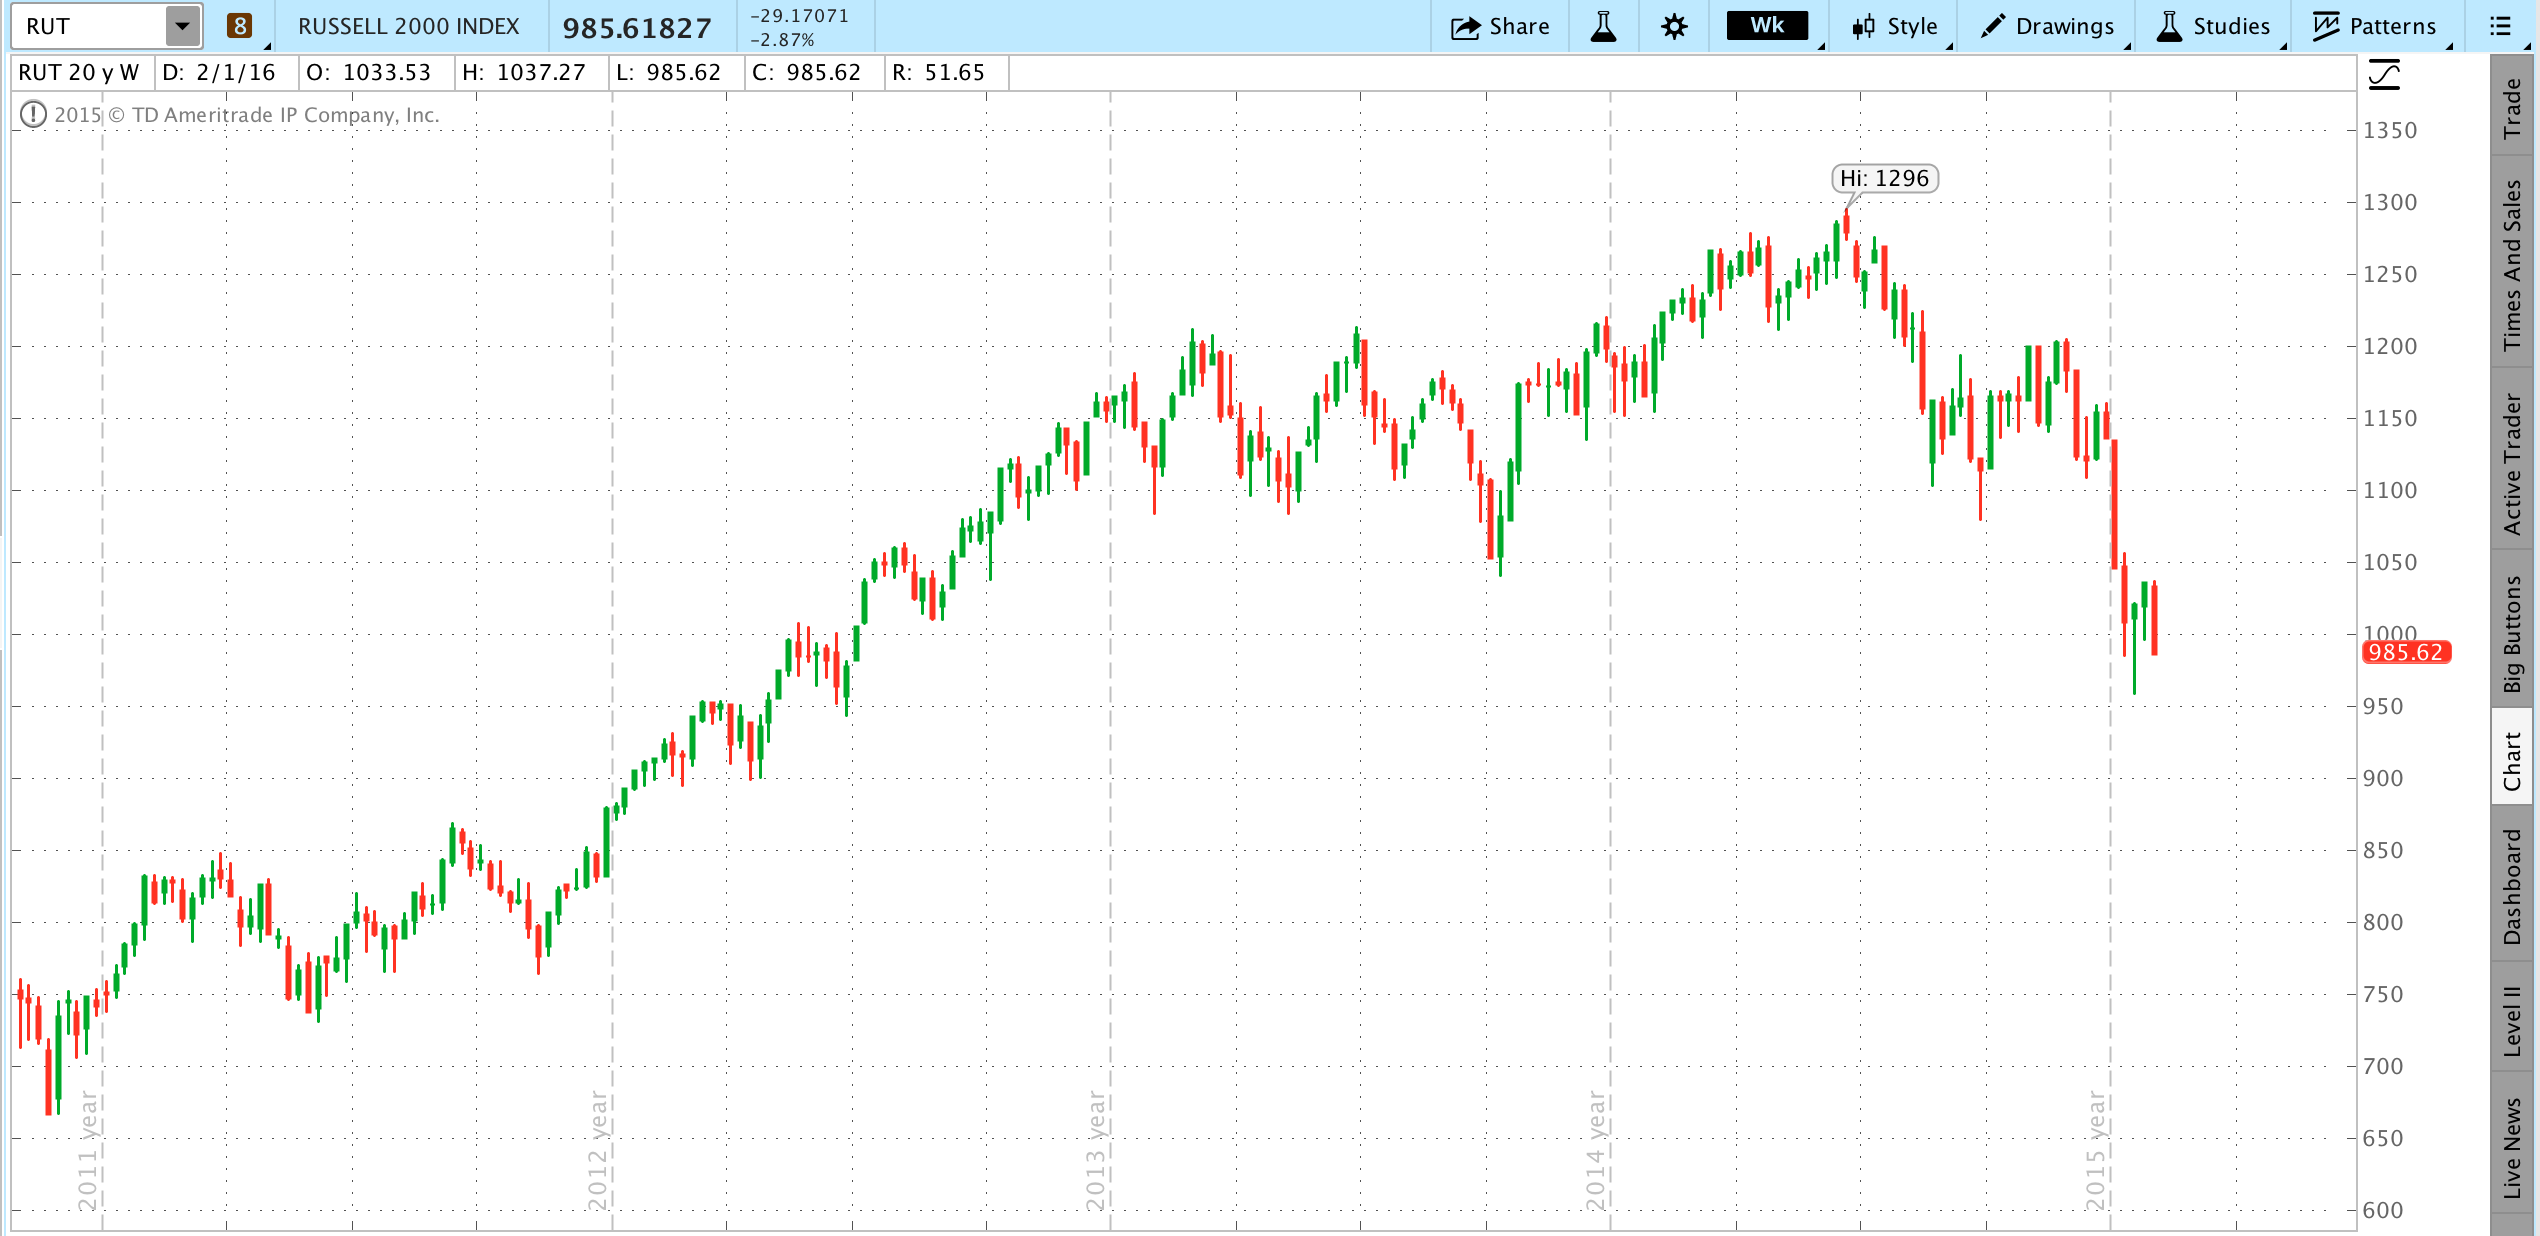
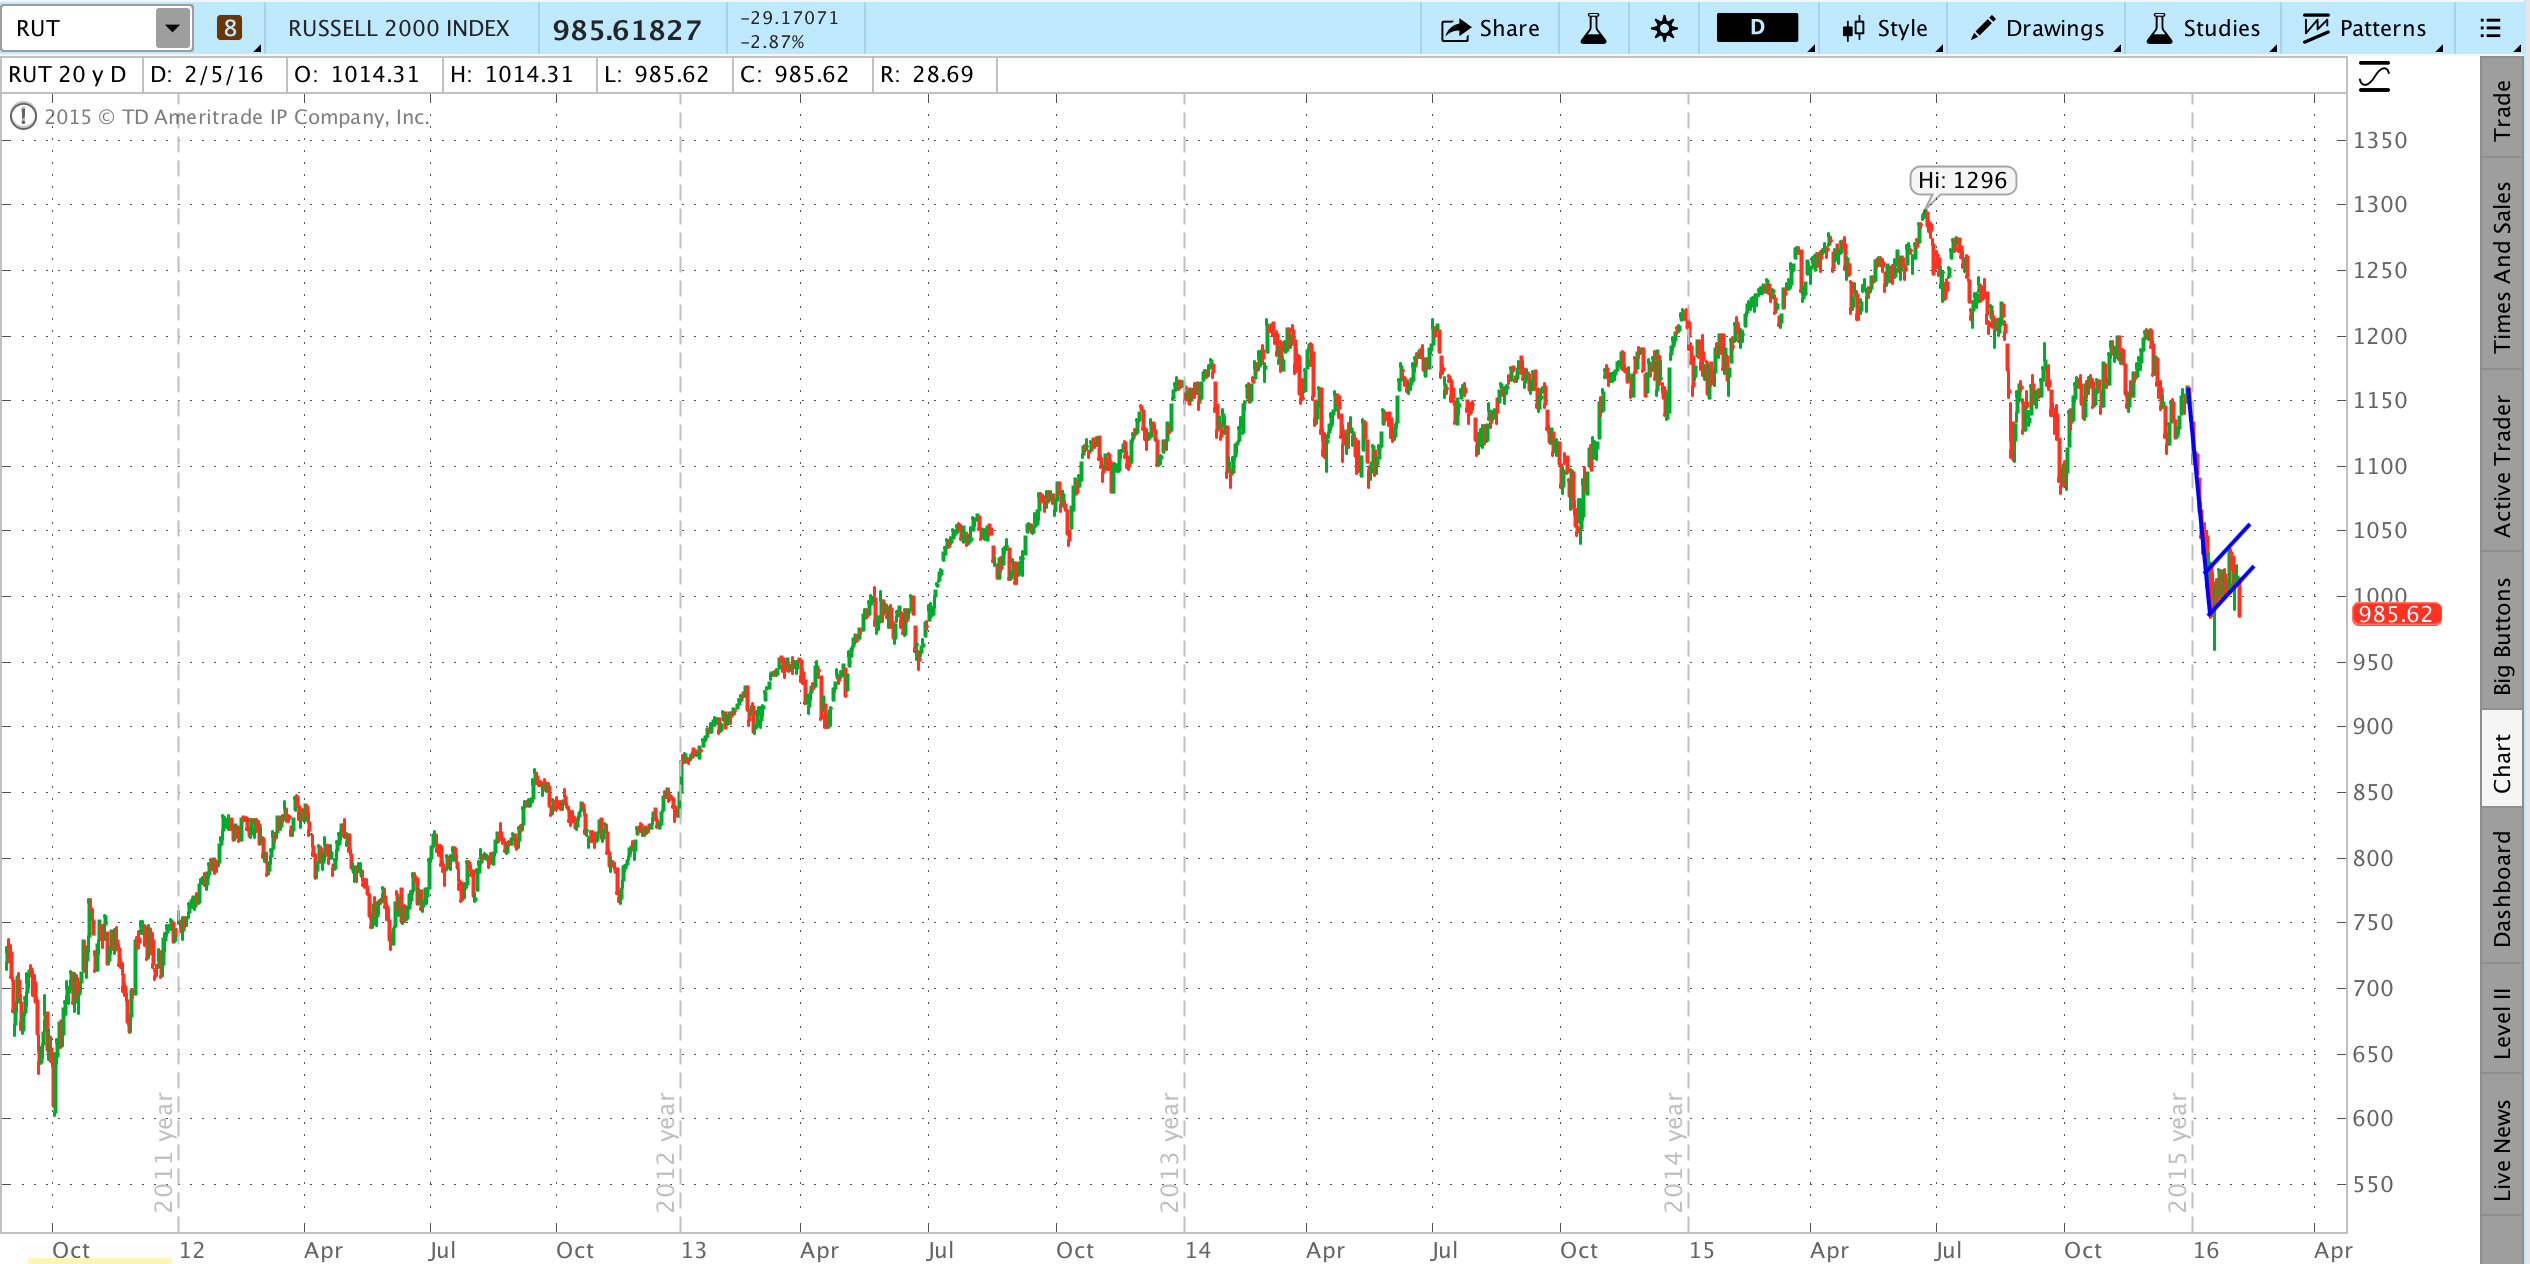
blah

diff --git a/public/blog/2016/02/07/weekly-market-outlook-02-slash-08-slash-16/index.html b/public/blog/2016/02/07/weekly-market-outlook-02-slash-08-slash-16/index.html
@@ -112,6 +112,8 @@
 
 <p><a href="/images/investments/2016-02-07_rut_weekly.png"><img src="/images/investments/2016-02-07_rut_weekly.png" alt="RUT" /></a></p>
 
+<p>Even clearer here, as it exhibits a prominent &ldquo;bear flag&rdquo; pattern.</p>
+
 <p>Here&rsquo;s the DJX:</p>
 
 <p><a href="/images/investments/2016-02-07_djx_weekly.png"><img src="/images/investments/2016-02-07_djx_weekly.png" alt="DJX" /></a></p>

diff --git a/public/index.html b/public/index.html
@@ -115,6 +115,8 @@
 
 <p><a href="/images/investments/2016-02-07_rut_weekly.png"><img src="/images/investments/2016-02-07_rut_weekly.png" alt="RUT" /></a></p>
 
+<p>Even clearer here, as it exhibits a prominent &ldquo;bear flag&rdquo; pattern.</p>
+
 <p>Here&rsquo;s the DJX:</p>
 
 <p><a href="/images/investments/2016-02-07_djx_weekly.png"><img src="/images/investments/2016-02-07_djx_weekly.png" alt="DJX" /></a></p>
